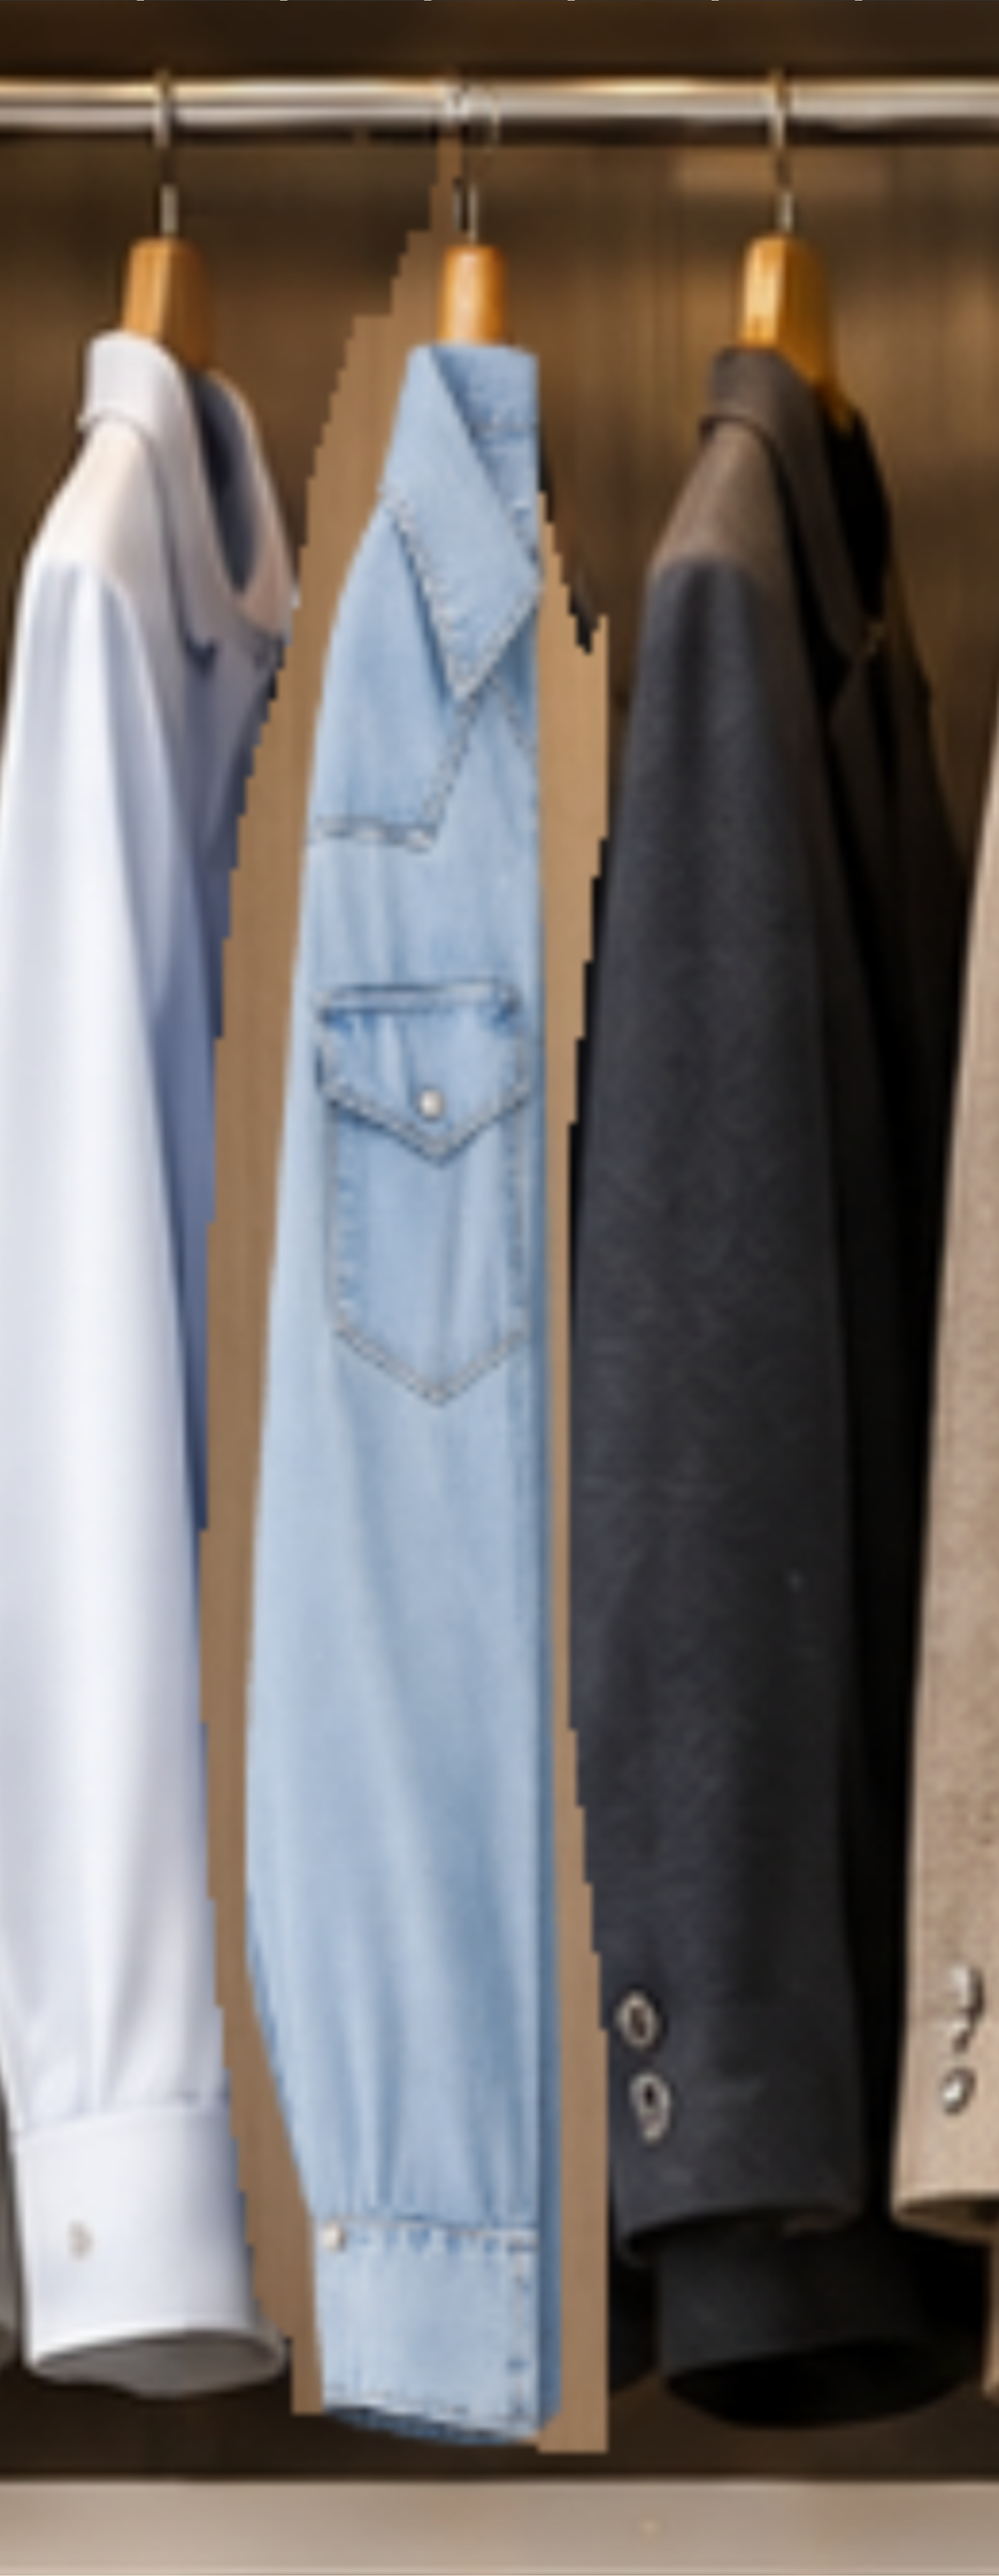
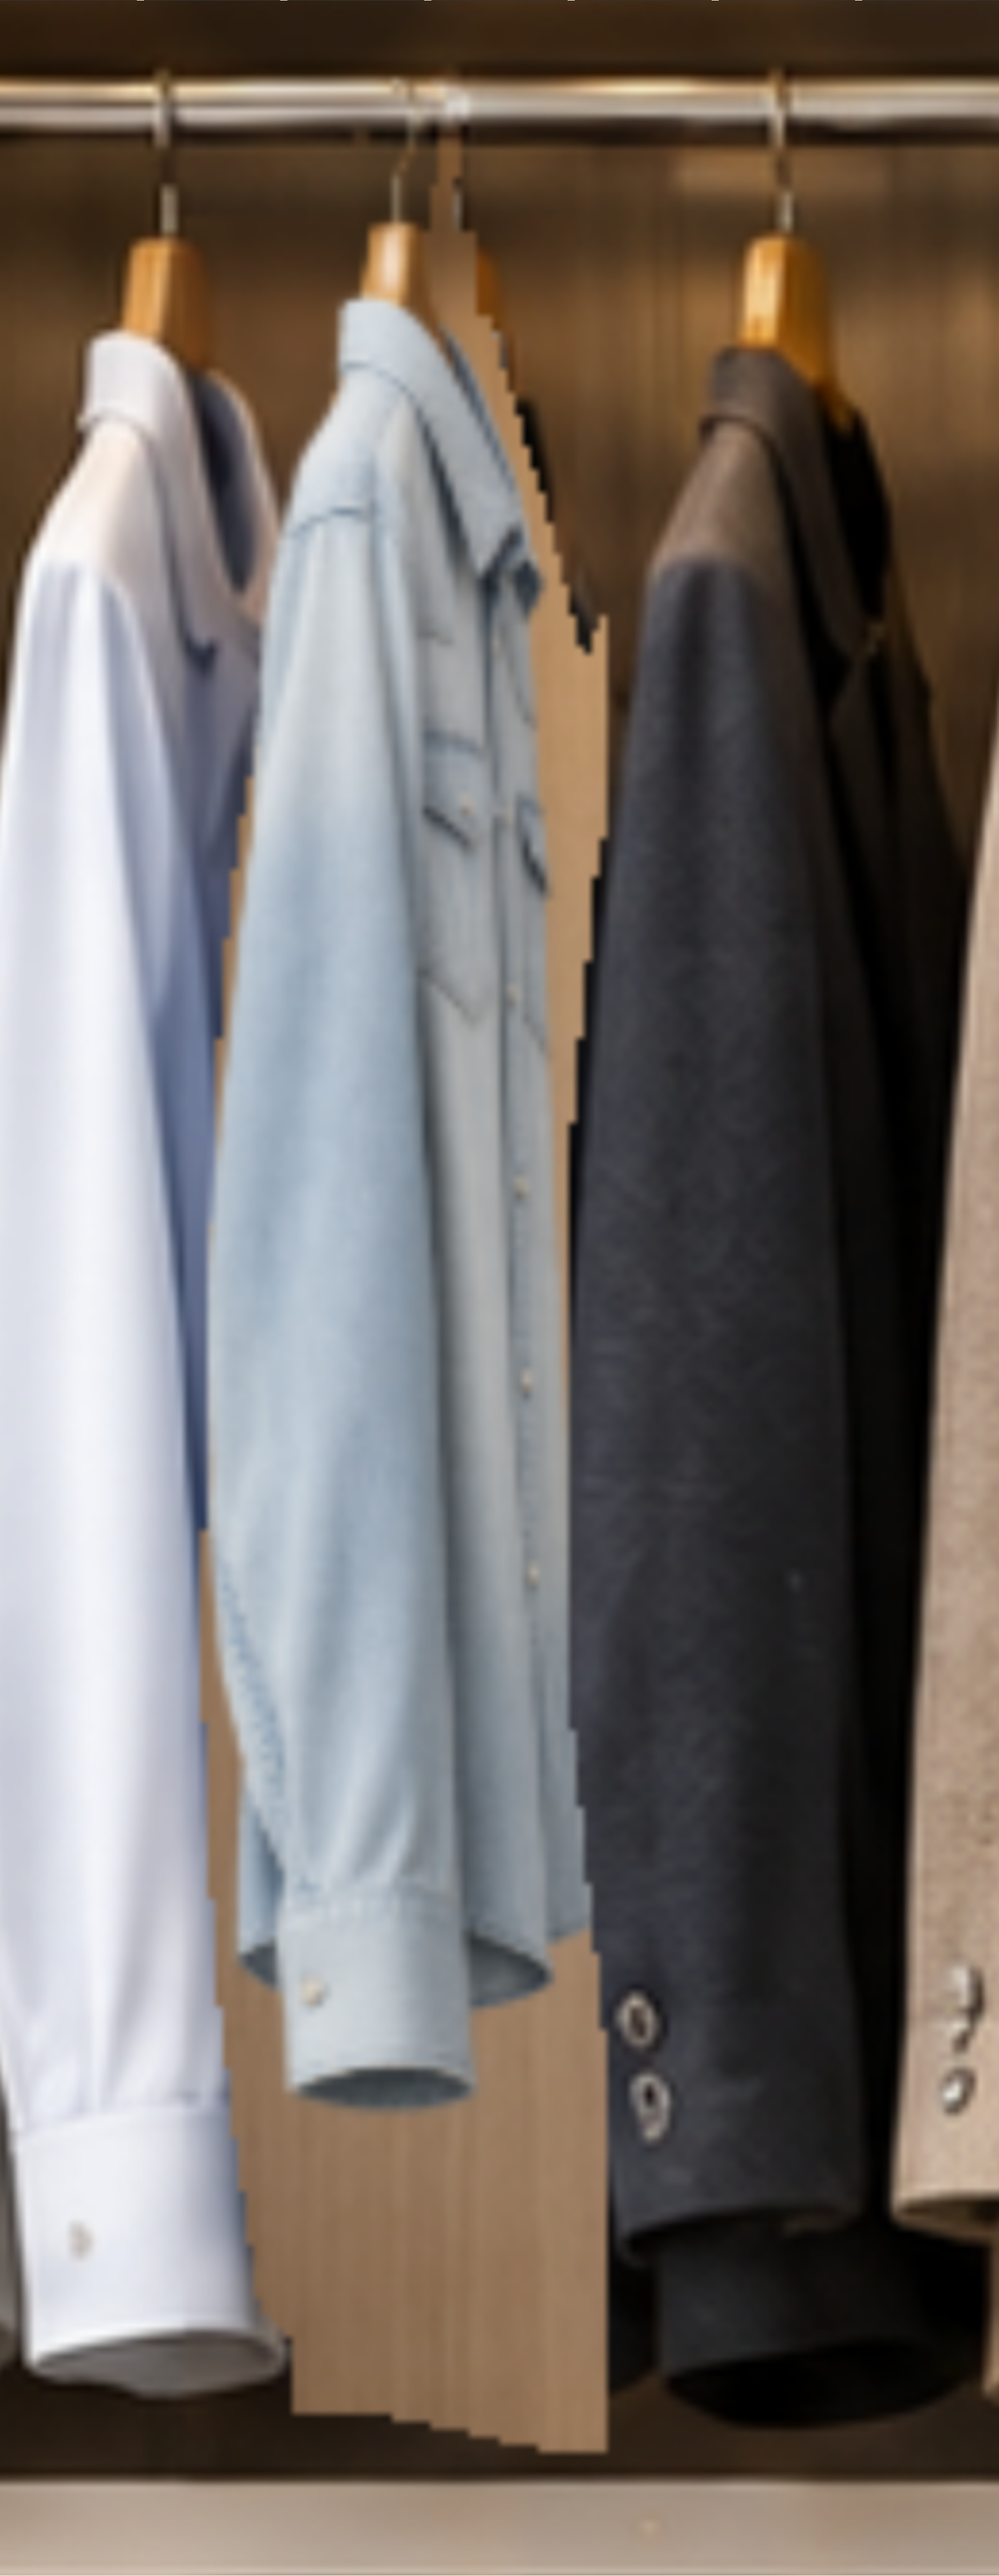
feat: place revised denim shirt in wardrobe preview

Changed region(s): [[0.1866, 0.0311, 0.5909, 0.9638]]

diff --git a/docs/handoff/SMART_WARDROBE_CODEX_HANDOFF_2026-10-11/reports/hanger-individual-v1/review.html b/docs/handoff/SMART_WARDROBE_CODEX_HANDOFF_2026-10-11/reports/hanger-individual-v1/review.html
@@ -2,7 +2,7 @@
 <title>행거 개별 픽셀 분리 검수</title>
 <style>body{margin:20px;background:#eee9e1;color:#29251f;font:16px system-ui}button,select,input{margin:5px;padding:8px}canvas{width:100%;height:auto;display:block}#stage{max-width:1672px}#assets{display:grid;grid-template-columns:repeat(7,1fr);gap:12px}figure{margin:0;padding:12px;background:#333;color:white}figure img{height:250px;max-width:100%;object-fit:contain;background:repeating-conic-gradient(#444 0% 25%,#666 0% 50%) 0/16px 16px}#status{min-height:2em}</style>
 <h1>행거 의류 21벌 개별 에셋</h1>
-<p><a href="B3-clean-review.html">B3 데님 셔츠 투명 PNG 수정본 비교 보기</a> · 수정 B3를 기본 배치했습니다. 체크를 해제하면 기존 분리본과 비교할 수 있습니다.</p>
+<p><a href="B3-shirt-v5-review.html">B3 소매·몸판 구분 시안 비교 보기</a> · 새 B3를 기본 배치했습니다. 체크를 해제하면 기존 분리본과 비교할 수 있습니다.</p>
 <p>원본 픽셀 분리 · 조명 기능과 무관하게 개별 배치. 숨겨진 의류 뒷부분은 복원 전입니다. 가장자리/제거 화면은 추가 시각 검수가 필요합니다.</p>
 <button id="original">원본</button><button id="assembled">개별 에셋 재합성</button><button id="empty">행거 전체 숨기기</button>
 <label><input id="clean-b3" type="checkbox" checked>수정 B3 적용</label>
@@ -12,9 +12,9 @@
 const spec=await fetch('manifest.json').then(r=>r.json());
 const load=src=>new Promise((resolve,reject)=>{const im=new Image;im.onload=()=>resolve(im);im.onerror=reject;im.src=src});
 const original=await load(spec.source),base=await load(spec.background),clean=await load(spec.clean_underlay),images={};
-const b3Clean=await load('B3-clean-final.png');
+const b3Clean=await load('B3-shirt-v5-final.png');
 for(const item of spec.items){images[item.id]=await load(item.file);const option=document.createElement('option');option.value=item.id;option.textContent=item.id;document.querySelector('#item').append(option);
- const fig=document.createElement('figure'),caption=document.createElement('figcaption'),img=document.createElement('img');caption.textContent=item.id;img.src=item.id==='B3'?'B3-clean-final.png':item.file;if(item.id==='B3')img.id='b3-asset';fig.append(caption,img);document.querySelector('#assets').append(fig)}
+ const fig=document.createElement('figure'),caption=document.createElement('figcaption'),img=document.createElement('img');caption.textContent=item.id;img.src=item.id==='B3'?'B3-shirt-v5-final.png':item.file;if(item.id==='B3')img.id='b3-asset';fig.append(caption,img);document.querySelector('#assets').append(fig)}
 const canvas=document.querySelector('#scene'),ctx=canvas.getContext('2d');
 let currentMode='assembled',currentId='';
 function draw(mode='assembled',id=''){
@@ -31,7 +31,7 @@ function draw(mode='assembled',id=''){
  window.hangerState={mode,id};
  window.b3CleanApplied=useClean&&!['original','empty'].includes(mode);
 }
-document.querySelector('#clean-b3').onchange=()=>{document.querySelector('#b3-asset').src=document.querySelector('#clean-b3').checked?'B3-clean-final.png':'B3.png';draw(currentMode,currentId)};
+document.querySelector('#clean-b3').onchange=()=>{document.querySelector('#b3-asset').src=document.querySelector('#clean-b3').checked?'B3-shirt-v5-final.png':'B3.png';draw(currentMode,currentId)};
 for(const mode of ['original','assembled','empty','remove','move'])document.querySelector('#'+mode).onclick=()=>draw(mode,document.querySelector('#item').value);
 draw();window.hangerReady=true;
 </script></html>

diff --git a/docs/handoff/SMART_WARDROBE_CODEX_HANDOFF_2026-10-11/reports/hanger-individual-v1/B3_SHIRT_V5.md b/docs/handoff/SMART_WARDROBE_CODEX_HANDOFF_2026-10-11/reports/hanger-individual-v1/B3_SHIRT_V5.md
@@ -6,7 +6,7 @@
 
 육안 확인에서 앞쪽 소매와 뒤쪽 몸판이 구분되고, 가슴 포켓과 단추선은 몸판에 있다. 손목 커프스와 몸판 밑단도 별도로 보인다. 원본 상품과 세부 재봉·칼라 모양이 완전히 일치하는 실측 복제는 아니다. 시각적 승인 전 후보이며 완성도는 `B3-shirt-v5-review.html`에서 확인한다. 알파 검사로 RGBA, 투명 모서리, 불투명 내부를 확인했다. 임의 재배치·전체 옷장 합성의 자연스러움은 별도 검증이다.
 
-현재 앱·DB와 기존 옷장 검수 화면의 기본 B3는 변경하지 않았다. 새 에셋과 독립 비교 화면만 추가했다. 유료 API·원격 push·배포는 수행하지 않았다.
+사용자의 후속 지시에 따라 `review.html`의 기본 B3를 이 새 시안으로 연결했다. 하단 투명 PNG 목록도 새 파일을 표시하며 `수정 B3 적용` 체크를 해제하면 최초 분리본으로 돌아간다. 원래 B3 배치 좌표와 53×310 캔버스는 유지했다. 앱·DB는 변경하지 않았고 유료 API·원격 push·배포는 수행하지 않았다. 기존 배경 패치 문제는 새 의류 파일 연결과 별개로 남아 있다.
 
 Canvas 마감 재현:
 

diff --git a/docs/handoff/SMART_WARDROBE_CODEX_HANDOFF_2026-10-11/reports/REMEDIATION_CHECKPOINT.md b/docs/handoff/SMART_WARDROBE_CODEX_HANDOFF_2026-10-11/reports/REMEDIATION_CHECKPOINT.md
@@ -98,3 +98,7 @@ review.html defaults to cleaned B3, checkbox toggles old asset. Browser PASS: ol
 
 ## B3 shirt structure candidate v5
 New user instruction: use other transparent PNGs for side pose and original denim product photo for shirt construction. New B3-shirt-v5 candidate has separately visible sleeve and torso, pocket/placket on torso. RGBA and browser comparison verified. Candidate only; original placement scale may need tuning. Existing wardrobe preview default, app, DB and production remain unchanged. See hanger-individual-v1/B3_SHIRT_V5.md.
+
+
+## B3 v5 in wardrobe review
+User requested placement. review.html now defaults to B3-shirt-v5-final.png, bottom thumbnail likewise; original checkbox comparison preserved. Placement remains 486,121,53,310. Browser verification passed and composite/detail screenshots refreshed. Background patch issue remains; preview-only, no app/DB/push/deploy.
